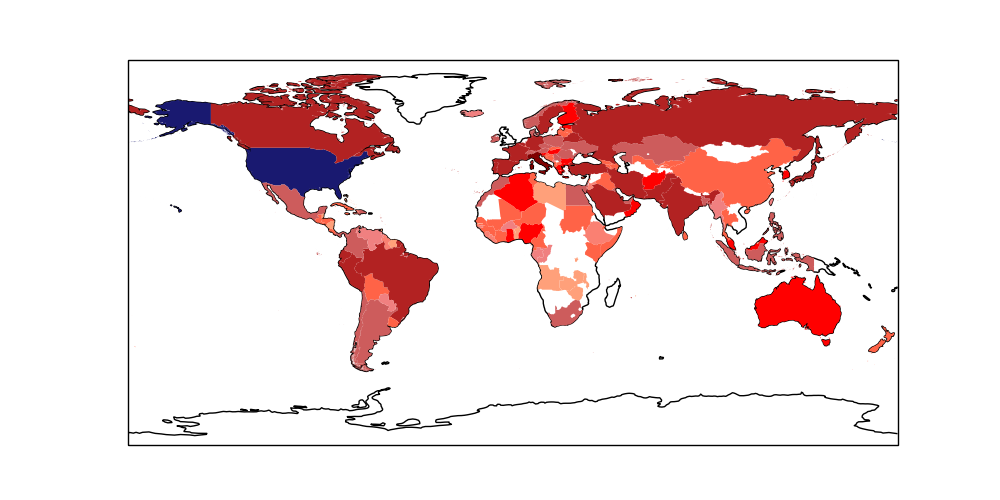
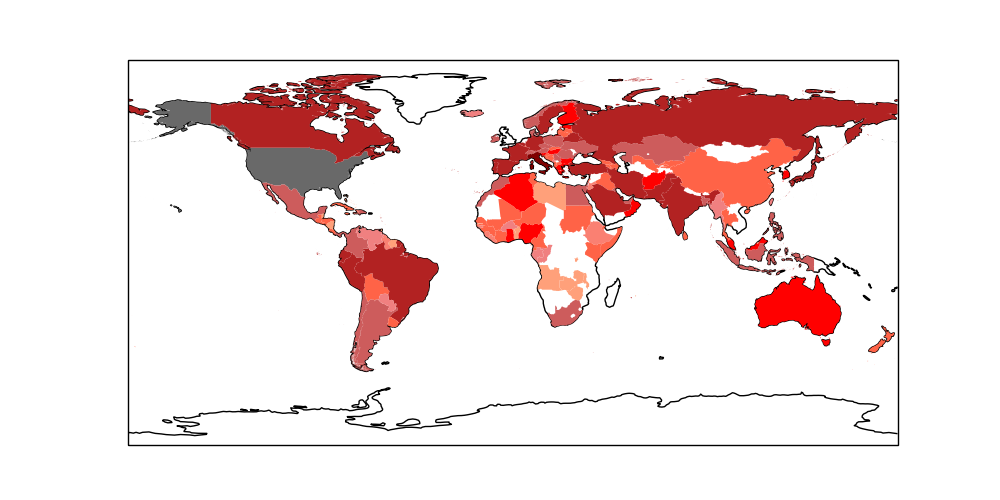
-

Changed region(s): [[0.248, 0.27, 0.372, 0.39], [0.155, 0.18, 0.248, 0.27]]

diff --git a/en/2020/02/corona.md b/en/2020/02/corona.md
@@ -5,7 +5,7 @@ import util, pandas as pd
 
 bins = [0, 50, 100, 200, 1000, 2000, 10000, 100000, 800000, 1200000]
 colors = ["lightsalmon","salmon","lightcoral", "tomato","red",\
-	  "indianred","firebrick","maroon","midnightblue"]
+	  "indianred","firebrick","maroon","dimgray"]
 df, col_dict = util.retrieve_cor_data(bins,colors)
 ```
 
